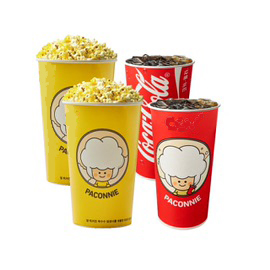
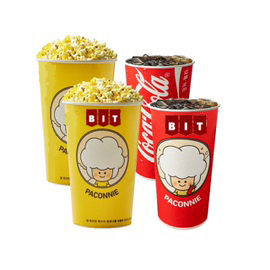
1. 용식행님이 포토샵 작업하신 콤보, 팝콘 storage에 덮어씌우기 2. 카트페이지 삭제부분 멘트수정했던거 적용시키기 3. 스토어페이먼트 defaultChecked는 아시져??? 키키 4. payComplete 결제내역 -> 마이페이지로, 상품더보기 -> 스토어인덱스로 경로설정 해줬던거 적용시키기
푸쉬푸쉬붸이붸 오푸쉬붸이붸

Changed region(s): [[0.5926, 0.4148, 0.7704, 0.5037], [0.2963, 0.3852, 0.4741, 0.4741]]

diff --git a/src/main/webapp/src/component/store/PayComplete.js b/src/main/webapp/src/component/store/PayComplete.js
@@ -1,7 +1,7 @@
 import React, { useEffect, useState } from 'react';
 import StoreHeader from './StoreHeader';
 import completeStyles from '../../css/PayComplete.module.css';
-import { useParams } from 'react-router-dom';
+import { useNavigate, useParams } from 'react-router-dom';
 import axios from 'axios';
 
 const PayComplete = () => {
@@ -39,7 +39,7 @@ const PayComplete = () => {
             objectType: 'feed',
             content: {
                 title: 'BITBOX에서 보내요!',
-                description: `상품 결제 내역입니다.\n 주문번호 : ${params}`,
+                description: `상품 결제 내역입니다. \n주문번호 : ${params}`,
                 imageUrl: 'bitbox',
                 link: {
                     webUrl: `http://localhost:3000/store/`
@@ -62,12 +62,21 @@ const PayComplete = () => {
         axios.post('http://localhost:8080/store/sms', null, {params: {
             recipientPhoneNumber : phoneNumber,
             title : subject,
-            content : `상품 결제가 완료되었습니다. \n 주문번호 : ${orderNumber}`
+            content : `BITBOX에서 상품 결제가 완료되었습니다. \n주문번호 : ${orderNumber}`
 
           }}
           )
         .then(res => console.log(res.data))
         .catch(error => console.log(error))
+    }
+
+    const navigate = useNavigate()
+    const gotoMypageReservation = () => {
+        navigate('/myPage/reservation')
+    }
+
+    const gotoStoreIndex = () => {
+        navigate('/store/')
     }
 
     return (
@@ -99,9 +108,9 @@ const PayComplete = () => {
                 <p className={completeStyles.com_box_design_olist}>
                     친구에게 선물한 경우 입력하신 수신번호로 상품교환이 가능한 기프트콘이 발송됩니다.</p>
                 <div className={completeStyles.com_btn_wrap}>
-                    <a href="#none" className={completeStyles.btn_style1} style={{ marginTop: 10, marginBottom: 30}}>결제내역</a>
+                    <a href="#none" onClick={ gotoMypageReservation } className={completeStyles.btn_style1} style={{ marginTop: 10, marginBottom: 30}}>결제내역</a>
                     <br />
-                    <a href="#" className={completeStyles.btn_style0} style={{ marginBottom: 10}}>상품 더보기</a>
+                    <a href="#" onClick={ gotoStoreIndex } className={completeStyles.btn_style0} style={{ marginBottom: 10}}>상품 더보기</a>
                     <a href="#" onClick={ sendKakaoMessage } className={completeStyles.btn_style0}>카카오톡으로 보내기</a>
                     <a href="#" onClick={ sendSMSMessage } className={completeStyles.btn_style0}>문자로 보내기</a>
                     {/* onClick={ sendSMSMessage } */}

diff --git a/src/main/webapp/src/component/store/StoreCart.js b/src/main/webapp/src/component/store/StoreCart.js
@@ -83,7 +83,7 @@ const StoreCart = () => {
         const newList = list.filter((item) => item.cart_seq !== targetSeq);
         setList(newList);
         axios.get(`http://localhost:8080/store/deleteCart?cart_seq=${targetSeq}`)
-             .then(alert('선택하신 상품이 삭제되었습니다!'))
+             .then(alert('해당 상품이 삭제되었습니다!'))
              .catch(error => console.log(error))
 
         // 장바구니 삭제 후 카운트와 아다리맞추기
@@ -277,7 +277,7 @@ const StoreCart = () => {
                             {/* <a href="#none" >선물하기</a> */}
                         </div>
                         {/* <a href="javascript:fn_Del('900734')" onClick={ () => onRemove(item.cart_seq) } className={cartStyles.btn_product_delect}>삭제</a> */}
-                        <button onClick={ () => { if (window.confirm(`${item.cart_seq}번째 상품을 삭제하시겠습니까`)){ onDelete(item.cart_seq); }} } className={cartStyles.btn_product_delect} style={{background:'url(/img/x.svg) no-repeat center', backgroundSize:'8pt', cursor: 'pointer'}}>삭제</button>
+                        <button onClick={ () => { if (window.confirm('선택하신 상품을 삭제하시겠습니까')){ onDelete(item.cart_seq); }} } className={cartStyles.btn_product_delect} style={{background:'url(/img/x.svg) no-repeat center', backgroundSize:'8pt', cursor: 'pointer'}}>삭제</button>
                     </li>
                         )
                     })

diff --git a/src/main/webapp/src/component/store/StorePayment.js b/src/main/webapp/src/component/store/StorePayment.js
@@ -229,7 +229,7 @@ const StorePayment = () => {
                     
                     <li>
                         {/* <input type="radio" name="radio" className={payStyles.com_custom_radio} id="payment_kakaopay"/> */}
-                        <input type="radio" checked/>
+                        <input type="radio" defaultChecked/>
                         <label>
                             <img src="../../img/kg_inicis.jpg" alt="KG이니시스" style={{ border: '1px solid gray', borderRadius: 5, marginTop: '15px', marginLeft: '-40px', width: 90, height: 40, boxShadow: '3px 3px 3px gray' }}/>
                         </label>
